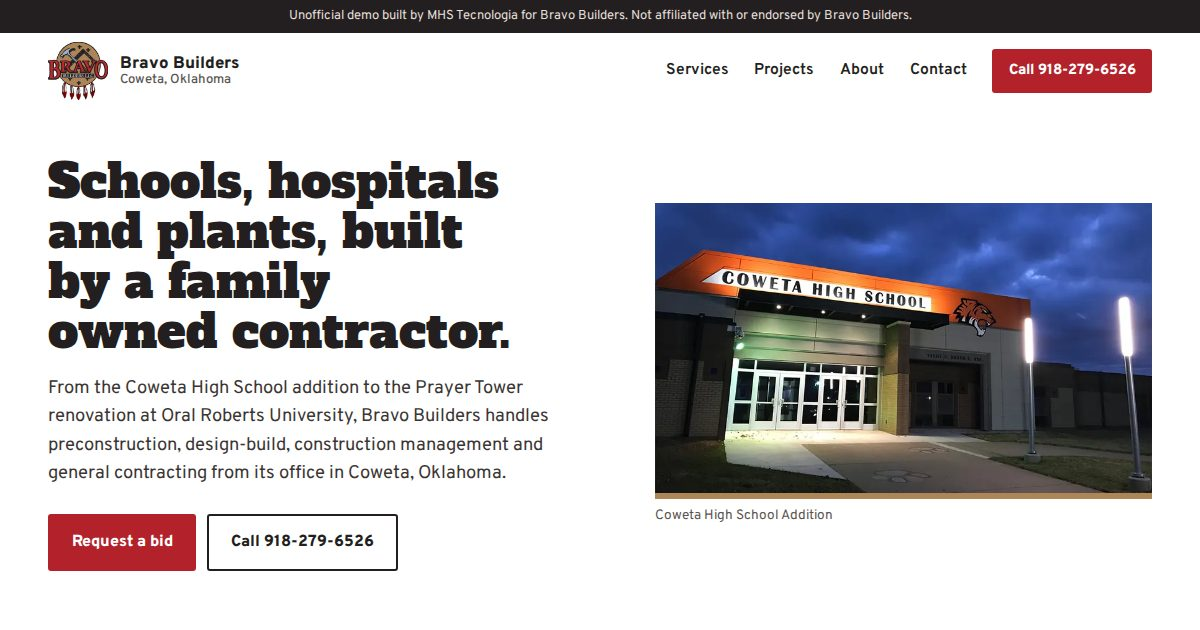
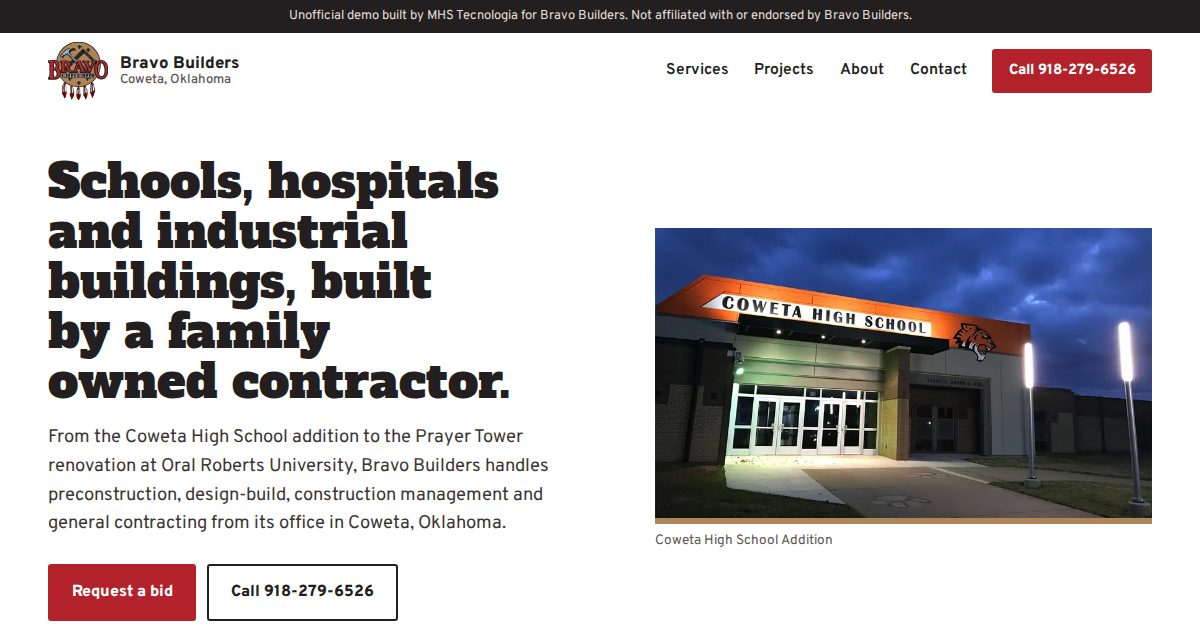
Previews: 92 ativos

Changed region(s): [[0.0308, 0.3317, 0.4625, 0.9952], [0.5242, 0.3016, 0.9867, 0.8746]]

diff --git a/bravo-builders-coweta-ok/index.html b/bravo-builders-coweta-ok/index.html
@@ -290,7 +290,7 @@ footer .legal { margin-top: 2.5rem; padding-top: 1.2rem; border-top: 1px solid #
 <main id="main">
 <section class="hero wrap" aria-labelledby="h1">
   <div class="hero-txt">
-    <h1 id="h1">Schools, hospitals and plants, built by a family owned contractor.</h1>
+    <h1 id="h1">Schools, hospitals and industrial buildings, built by a family owned contractor.</h1>
     <p class="lede">From the Coweta High School addition to the Prayer Tower renovation at Oral Roberts University, Bravo Builders handles preconstruction, design-build, construction management and general contracting from its office in Coweta, Oklahoma.</p>
     <div class="acts">
       <a class="btn" data-cta href="mailto:admin@bravo-builders.com?subject=Bid%20request">Request a bid</a>
